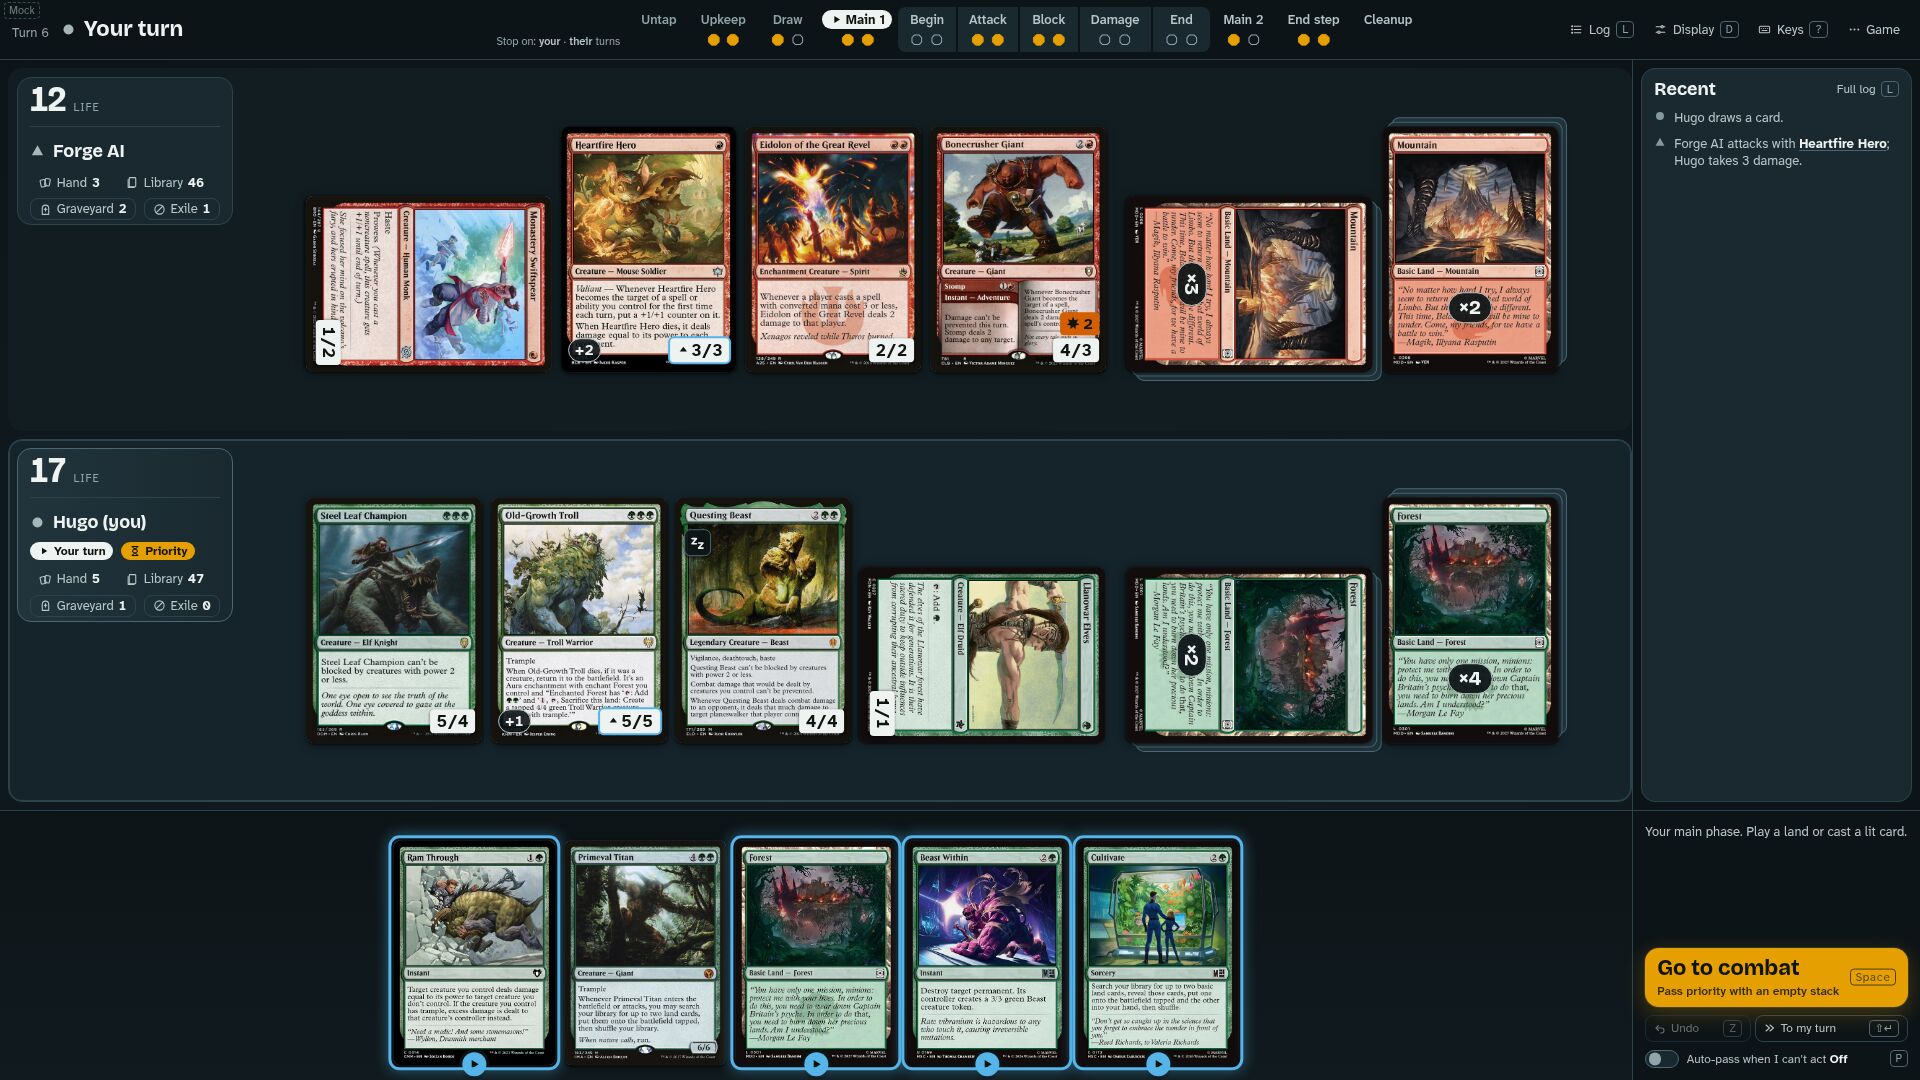
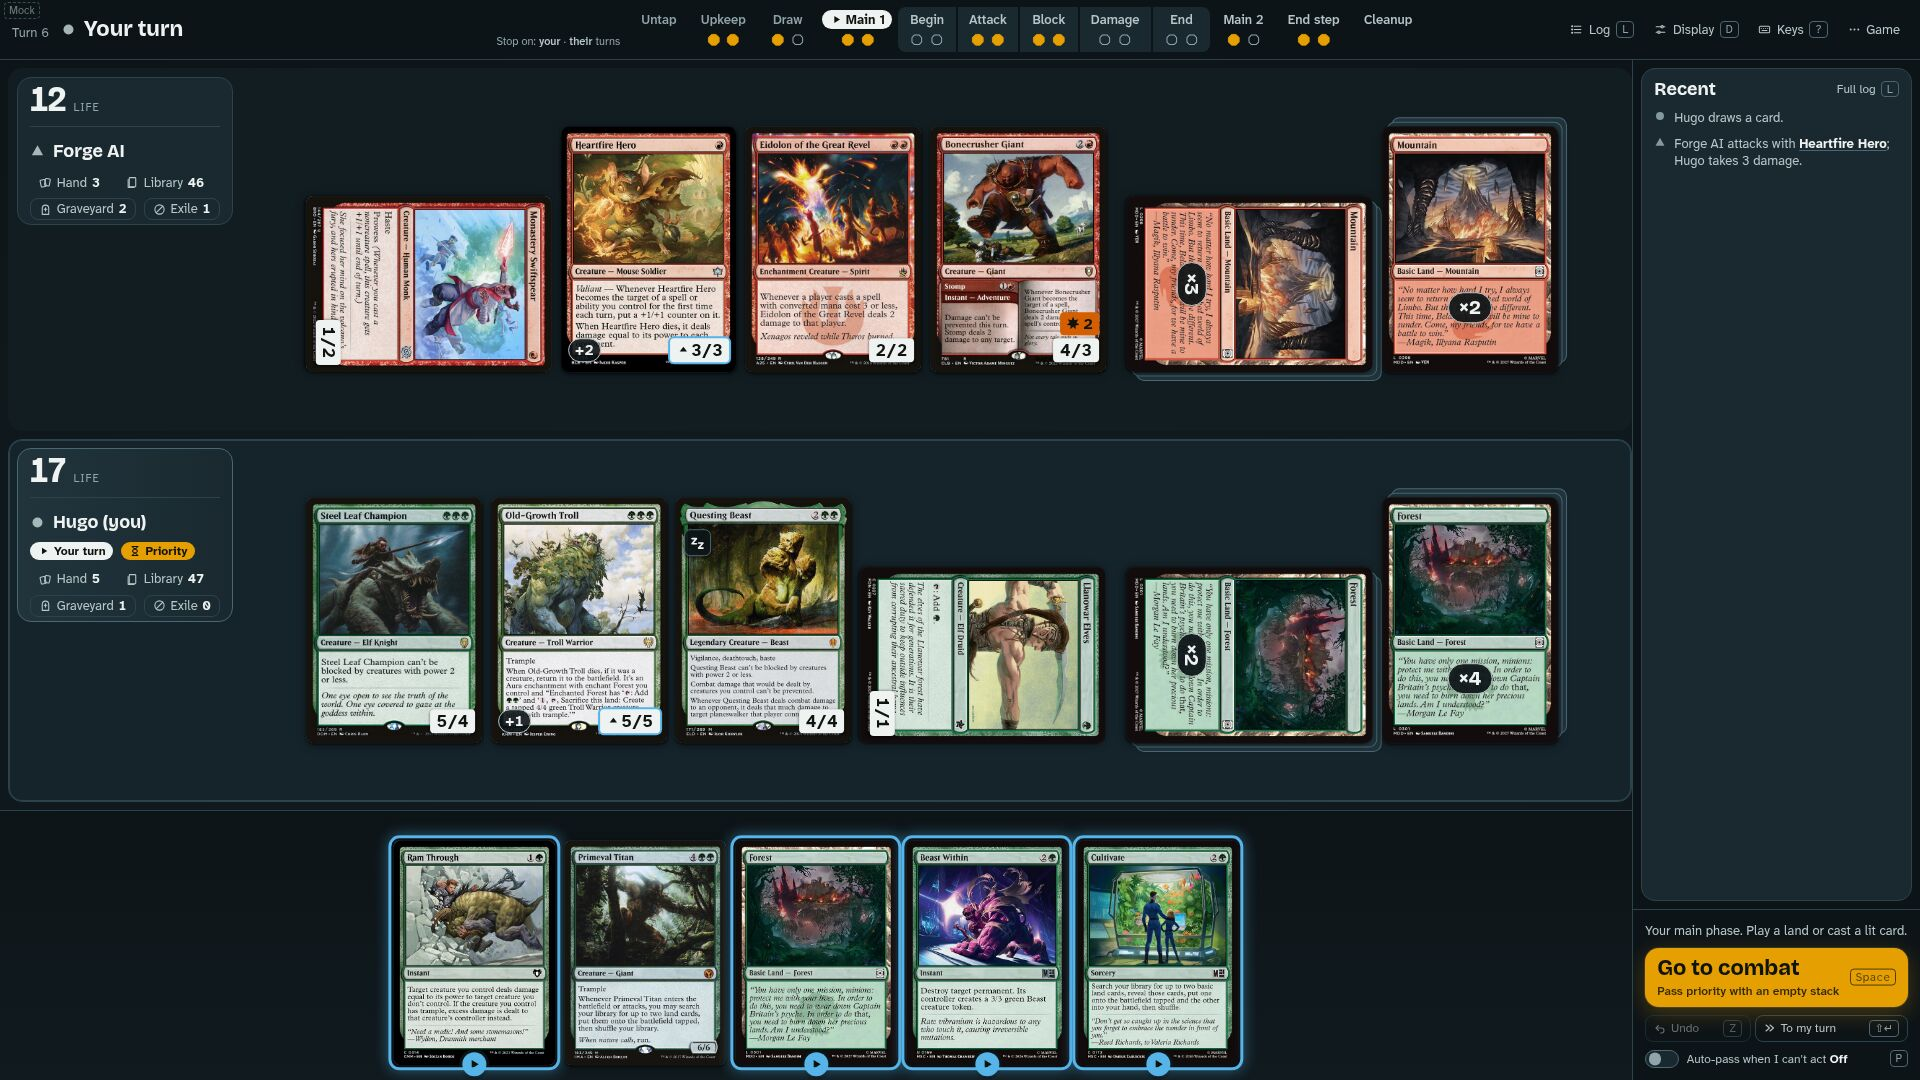
Pass 3D: full-height right panel, prompt on the button, marker clear of the plate ring (#23)
- Rail spans the board and hand rows: regions on top, Recent fills, action
  block content-sized at the bottom with a floating-mana slot.
- Prompt is content-sized (max 4 lines, title holds full text): visible at
  200 % UI scale, no measured line count, so no one-frame cut.
- outsideAnchor intersects with the plate box inflated by the gap, no cap.
- Regenerated the 8 committed JPEGs whose view shows the right panel.

Changed region(s): [[0.8438, 0.7333, 1.0, 0.8861]]

diff --git a/forge-gui-web/frontend/src/components/ActionPanel.tsx b/forge-gui-web/frontend/src/components/ActionPanel.tsx
@@ -1,4 +1,3 @@
-import { useLayoutEffect, useRef, useState, type CSSProperties } from 'react';
 import { currentDefender } from '../state/focus';
 import { useMatch } from '../state/MatchContext';
 import { primaryAction, promptText } from '../state/primaryAction';
@@ -6,32 +5,15 @@ import { Icon } from './Icon';
 import styles from './ActionPanel.module.css';
 
 /**
- * How many whole lines fit in an element whose height the layout sets (the
- * prompt takes what the buttons leave). Clamping to that count ends the text
- * on a whole line with an ellipsis instead of slicing a line in half.
+ * Bottom of the right panel: what the game wants, and the one button that
+ * answers it. Sized to its content and anchored to the bottom edge, so the
+ * persistent controls (Undo row, switches) keep their place whatever shows
+ * above them; anything that comes and goes takes its height from Recent.
  */
-function useWholeLines<T extends HTMLElement>() {
-  const ref = useRef<T>(null);
-  const [lines, setLines] = useState(4);
-  useLayoutEffect(() => {
-    const el = ref.current;
-    if (!el) return;
-    const ro = new ResizeObserver(() => {
-      const lh = parseFloat(getComputedStyle(el).lineHeight);
-      if (!(lh > 0)) return;
-      setLines(Math.max(1, Math.min(4, Math.floor((el.clientHeight + 0.5) / lh))));
-    });
-    ro.observe(el);
-    return () => ro.disconnect();
-  }, []);
-  return [ref, lines] as const;
-}
-
-/** Bottom-right, beside the hand: what the game wants, and the one button that answers it. */
 export function ActionPanel() {
   const { game, ui, prefs, send, setUi, canUndo } = useMatch();
   const action = primaryAction(game, ui);
-  const [promptRef, promptLines] = useWholeLines<HTMLParagraphElement>();
+  const prompt = promptText(game);
   const d = game.decision;
   const canCancel =
     d.kind === 'chooseTargets' ||
@@ -41,14 +23,18 @@ export function ActionPanel() {
 
   return (
     <section className={styles.panel} aria-label="Your decision">
-      <p ref={promptRef} className={styles.prompt} aria-live="polite">
-        <span className={styles.promptText} style={{ WebkitLineClamp: promptLines } as CSSProperties}>
-          {promptText(game)}
-        </span>
+      {/* Floating mana (issue 24): shown only while the pool is not empty,
+          directly above the prompt. Hidden while empty. */}
+      <div className={styles.floatingMana} data-slot="floating-mana" />
+
+      {/* Content-sized (at most 4 lines, full text on hover), so it always
+          shows and sits directly on the buttons, at any UI scale. */}
+      <p className={styles.prompt} aria-live="polite" title={prompt}>
+        {prompt}
       </p>
 
-      {/* Reserved slot for contextual buttons: always takes its height, so
-          nothing below it moves when they come and go (mockup review 1). */}
+      {/* Contextual buttons that answer the prompt; the row exists only while
+          one shows. It sits above the main button, so nothing below moves. */}
       <div className={styles.contextual}>
         {d.kind === 'declareAttackers' ? (
           <button

diff --git a/forge-gui-web/frontend/src/components/arrowGeometry.ts b/forge-gui-web/frontend/src/components/arrowGeometry.ts
@@ -31,23 +31,20 @@ export function sourceY(item: Box, scroller: Box | undefined): number | undefine
 }
 
 /**
- * End point for a line aimed at a box (a player plate): on the segment from
- * `from` to the box centre, at least `gap` outside the edge the segment
- * crosses. The line and its marker then stay off the plate's text.
+ * End point for a line aimed at a box (a player plate): where the segment
+ * from `from` to the box centre leaves the box inflated by `gap`. Every point
+ * on that inflated edge is at least `gap` from the box, at any angle, so the
+ * line and its marker stay off the plate's ring and text.
  */
 export function outsideAnchor(from: Point, box: Box, gap: number): Point {
   const cx = (box.left + box.right) / 2;
   const cy = (box.top + box.bottom) / 2;
   const dx = from.x - cx;
   const dy = from.y - cy;
-  const len = Math.hypot(dx, dy);
-  if (len === 0) return { x: cx, y: cy };
-  const tx = dx === 0 ? Infinity : (box.right - box.left) / 2 / Math.abs(dx);
-  const ty = dy === 0 ? Infinity : (box.bottom - box.top) / 2 / Math.abs(dy);
+  if (dx === 0 && dy === 0) return { x: cx, y: cy };
+  const tx = dx === 0 ? Infinity : ((box.right - box.left) / 2 + gap) / Math.abs(dx);
+  const ty = dy === 0 ? Infinity : ((box.bottom - box.top) / 2 + gap) / Math.abs(dy);
   const t = Math.min(tx, ty);
-  if (t >= 1) return from; // the source is inside the box
-  // Distance along the segment that puts the point `gap` past the crossed edge.
-  const normal = (tx < ty ? Math.abs(dx) : Math.abs(dy)) / len;
-  const s = Math.min(gap / normal, 3 * gap);
-  return { x: cx + t * dx + (s * dx) / len, y: cy + t * dy + (s * dy) / len };
+  if (t >= 1) return from; // the source is inside the inflated box
+  return { x: cx + t * dx, y: cy + t * dy };
 }

diff --git a/forge-gui-web/frontend/src/components/ActionPanel.module.css b/forge-gui-web/frontend/src/components/ActionPanel.module.css
@@ -1,37 +1,33 @@
+/* Bottom of the rail (Rail.module.css): content-sized, never squeezed. */
 .panel {
-  grid-area: action;
+  flex: none;
   display: flex;
   flex-direction: column;
-  justify-content: flex-end;
   gap: var(--sp-2);
   padding: var(--sp-3);
   background: var(--c-bg);
   border-top: 1px solid var(--c-line);
-  border-left: 1px solid var(--c-line);
-  min-height: 0;
 }
 
+/* Issue 24 fills it with the floating mana; takes no room while empty. */
+.floatingMana:empty {
+  display: none;
+}
+
+/* Whole lines only, at most 4; the full text is in the hover title. */
 .prompt {
   margin: 0;
-  min-height: 0;
   font-size: var(--fs-sm);
   line-height: 1.35;
   color: var(--c-text-2);
-  flex: 1;
-  overflow: hidden;
-}
-
-/* Clamped to the whole lines that fit in .prompt (ActionPanel sets the count),
-   so a line is never cut in half. */
-.promptText {
   display: -webkit-box;
   -webkit-line-clamp: 4;
   -webkit-box-orient: vertical;
   overflow: hidden;
 }
 
-/* Contextual buttons (Attack all, Cancel) appear here. The slot always
-   keeps one row's height, so the persistent controls below never move. */
+/* Contextual buttons (Attack all, Cancel). The row is there only while one
+   shows; it sits above the main button, so the controls below never move. */
 .contextual {
   flex: none;
   display: flex;
@@ -40,14 +36,12 @@
   height: 2.25rem;
 }
 
-.contextual > * {
-  min-width: 0;
+.contextual:empty {
+  display: none;
 }
 
-/* While the slot is empty the prompt text may use its room; the slot itself
-   keeps its height, so the controls below still do not move. */
-.panel:has(.contextual:empty) .prompt {
-  margin-bottom: calc(-2.25rem - var(--sp-2));
+.contextual > * {
+  min-width: 0;
 }
 
 .mainRow {

diff --git a/forge-gui-web/frontend/src/components/arrowGeometry.test.ts b/forge-gui-web/frontend/src/components/arrowGeometry.test.ts
@@ -59,3 +59,36 @@ describe('player target anchor (review of PR 16)', () => {
     expect(p.y).toBeCloseTo(plate.top - 16, 6);
   });
 });
+
+/** Euclidean distance from a point to a box (0 inside). */
+const distToBox = (p: { x: number; y: number }, b: Box) =>
+  Math.hypot(Math.max(b.left - p.x, 0, p.x - b.right), Math.max(b.top - p.y, 0, p.y - b.bottom));
+
+describe('player target anchor at shallow angles (issue 23)', () => {
+  // A wide, short plate: a near-horizontal line crosses its top edge close to a corner.
+  const plate = box(24, 400, 400, 40);
+  const centre = { x: 224, y: 420 };
+
+  it('keeps the full gap from a wide, short plate for a near-horizontal source', () => {
+    const from = { x: centre.x + 800, y: centre.y - 100 };
+    const p = outsideAnchor(from, plate, 17);
+    expect(distToBox(p, plate)).toBeGreaterThanOrEqual(17 - 1e-6);
+  });
+
+  it('keeps the gap for every source angle around the plate', () => {
+    for (let deg = 0; deg < 360; deg += 1) {
+      const a = (deg * Math.PI) / 180;
+      const from = { x: centre.x + 1400 * Math.cos(a), y: centre.y + 1400 * Math.sin(a) };
+      const p = outsideAnchor(from, plate, 17);
+      expect(distToBox(p, plate)).toBeGreaterThanOrEqual(17 - 1e-6);
+      // Still on the segment between the source and the plate centre.
+      const cross = (p.x - from.x) * (centre.y - from.y) - (p.y - from.y) * (centre.x - from.x);
+      expect(Math.abs(cross)).toBeLessThan(1e-6 * 1400 ** 2);
+    }
+  });
+
+  it('ends at the source when the source is inside the gap', () => {
+    const from = { x: plate.right + 5, y: centre.y };
+    expect(outsideAnchor(from, plate, 17)).toEqual(from);
+  });
+});

diff --git a/forge-gui-web/frontend/src/components/Rail.tsx b/forge-gui-web/frontend/src/components/Rail.tsx
@@ -2,6 +2,7 @@ import type { CSSProperties } from 'react';
 import { player, targetName } from '../model/selectors';
 import { spotlightItem } from '../state/cardStatus';
 import { useMatch } from '../state/MatchContext';
+import { ActionPanel } from './ActionPanel';
 import { Card } from './Card';
 import { CombatPanel } from './CombatPanel';
 import { Icon, SeatGlyph } from './Icon';
@@ -9,17 +10,23 @@ import { LogText } from './LogText';
 import styles from './Rail.module.css';
 
 /**
- * Right column: the stack (only when not empty), combat, an open zone, recent
- * events. Each region keeps its header in view and scrolls its own body, so
- * an open zone never pushes the log out of reach.
+ * Right panel, full height and in the same place in every layout. Top: the
+ * regions that come and go (stack when not empty, combat, an open zone), then
+ * Recent, which takes the height left. Bottom: the action block, sized to its
+ * content and anchored to the bottom edge, so its persistent controls never
+ * move. Each region keeps its header in view and scrolls its own body, so an
+ * open zone never pushes the log out of reach.
  */
 export function Rail() {
   return (
     <aside className={styles.rail}>
-      <StackPanel />
-      <CombatPanel />
-      <ZoneViewer />
-      <RecentEvents />
+      <div className={styles.regions}>
+        <StackPanel />
+        <CombatPanel />
+        <ZoneViewer />
+        <RecentEvents />
+      </div>
+      <ActionPanel />
     </aside>
   );
 }

diff --git a/forge-gui-web/frontend/src/components/Rail.module.css b/forge-gui-web/frontend/src/components/Rail.module.css
@@ -1,14 +1,24 @@
+/* Spans the board and hand rows: one full-height column. */
 .rail {
   grid-area: rail;
+  display: flex;
+  flex-direction: column;
+  min-height: 0;
+  border-left: 1px solid var(--c-line);
+  background: var(--c-bg);
+}
+
+/* Everything above the action block. It takes the height the action block
+   leaves; scrolling here is the last resort (each region scrolls its own
+   body first) and never moves the action block. */
+.regions {
+  flex: 1 1 0;
   display: flex;
   flex-direction: column;
   gap: var(--sp-2);
   padding: var(--sp-2);
   min-height: 0;
-  /* Last resort only: each region below scrolls its own body first. */
   overflow-y: auto;
-  border-left: 1px solid var(--c-line);
-  background: var(--c-bg);
 }
 
 .block {
@@ -47,9 +57,11 @@
   min-height: 9rem;
 }
 
+/* Takes the height left above the action block. The floor fits the header
+   and three events of up to two lines each. */
 .recent {
   flex: 1 1 auto;
-  min-height: 8.5rem;
+  min-height: 11rem;
 }
 
 .head {

diff --git a/forge-gui-web/frontend/src/components/MatchScreen.tsx b/forge-gui-web/frontend/src/components/MatchScreen.tsx
@@ -2,7 +2,6 @@ import { useEffect, useEffectEvent } from 'react';
 import { currentDefender } from '../state/focus';
 import { useMatch } from '../state/MatchContext';
 import { draftFor, primaryAction } from '../state/primaryAction';
-import { ActionPanel } from './ActionPanel';
 import { Arrows } from './Arrows';
 import { Board } from './Board';
 import { ChoiceTray } from './ChoiceTray';
@@ -104,7 +103,6 @@ export function MatchScreen() {
       </main>
       <Rail />
       <Hand />
-      <ActionPanel />
       <Arrows />
       <HoverPreview />
       <Inspector />

diff --git a/forge-gui-web/frontend/src/components/MatchScreen.module.css b/forge-gui-web/frontend/src/components/MatchScreen.module.css
@@ -7,7 +7,7 @@
   grid-template-areas:
     'top top'
     'board rail'
-    'hand action';
+    'hand rail';
   background: radial-gradient(120% 90% at 45% 60%, var(--c-table) 0%, var(--c-bg) 75%);
 }
 

diff --git a/docs/fork/design/mockup-notes.md b/docs/fork/design/mockup-notes.md
@@ -124,3 +124,17 @@ Tests: 55 (pass 1: 17). New: spotlight (`state/stackSpotlight.test.ts`), focus a
 Verified with Playwright at 1920×1080 and 1366×768 (desktop context, device scale 1): every scenario in all three layouts with no console errors or warnings. Undo, To my turn and the auto-pass switch keep identical rects in 18 states, including targeting, attack drafts, pending blocks, passing to your turn and waiting. Rail regions scroll independently with the stack, an open graveyard and recent events all visible at 1366×768. The scale stays unchanged while dragging and applies on release and on arrow, Home and End keys. All 9 committed JPEGs were regenerated. The deuteranopia JPEG uses the Machado 2009 matrix in linear RGB (ImageMagick `-color-matrix`).
 
 Not addressed, waiting on product: at 1366×768 and 1920×1080 the compact plate of an opponent with a commander thumbnail (Theo) is still taller than its seat, and its bottom chips are clipped.
+
+## Pass 3D: right panel (issue 23)
+Spec: [product-decisions-pass-3.md](product-decisions-pass-3.md), section 4 "Right panel".
+
+| Change | Code |
+|---|---|
+| The right panel is one full-height column (grid area `rail` spans the board and hand rows), same place in every layout. Top: stack, combat, open zone (when present); then Recent, which takes the height left (floor: header + three two-line events). Bottom: the action block. | `MatchScreen.module.css`, `Rail.tsx`, `Rail.module.css` |
+| Action block, top to bottom: floating-mana slot (`data-slot="floating-mana"`, hidden while empty; issue 24 fills it), prompt, contextual row (Attack all, Cancel; present only while one shows), main button, Undo / To my turn, auto-pass switch. It is content-sized and bottom-anchored, so whatever comes and goes above the main button takes its height from Recent and the controls below never move. | `ActionPanel.tsx`, `ActionPanel.module.css` |
+| Prompt: content-sized, at most 4 whole lines (`-webkit-line-clamp`), full text in the hover title. Fixes the 0 px prompt at 200 % UI scale, and the one-frame cut (the measured line count and its ResizeObserver are gone). | `ActionPanel.*` |
+| Player-target anchor: the segment to the plate centre is intersected with the plate box inflated by the gap, no cap; the marker centre is always ≥ gap (17 px) from the plate. | `arrowGeometry.ts` (+ tests) |
+
+Above the action block, the regions scroll as a last resort (at 200 % UI scale with a stack and an open zone); the action block never scrolls.
+
+Measured with Playwright (desktop context, scale 1): at 1366×768 and 1920×1080, 100 %, every scenario in all three layouts and in states (zone open, passing to your turn, attack declaration, attack draft with Cancel), the only space below the last region is the column padding; Recent shows ≥ 3 whole events whenever the log has 3; Undo, To my turn and the switch keep identical rects; the prompt sits one `--sp-2` gap above the next control. At 200 % the prompt is 55 px (1366) / 70 px (1920) tall and never clipped. Stack6, every layout, 1366/1920/2560: player-target marker centre 17 px or more from the plate.
